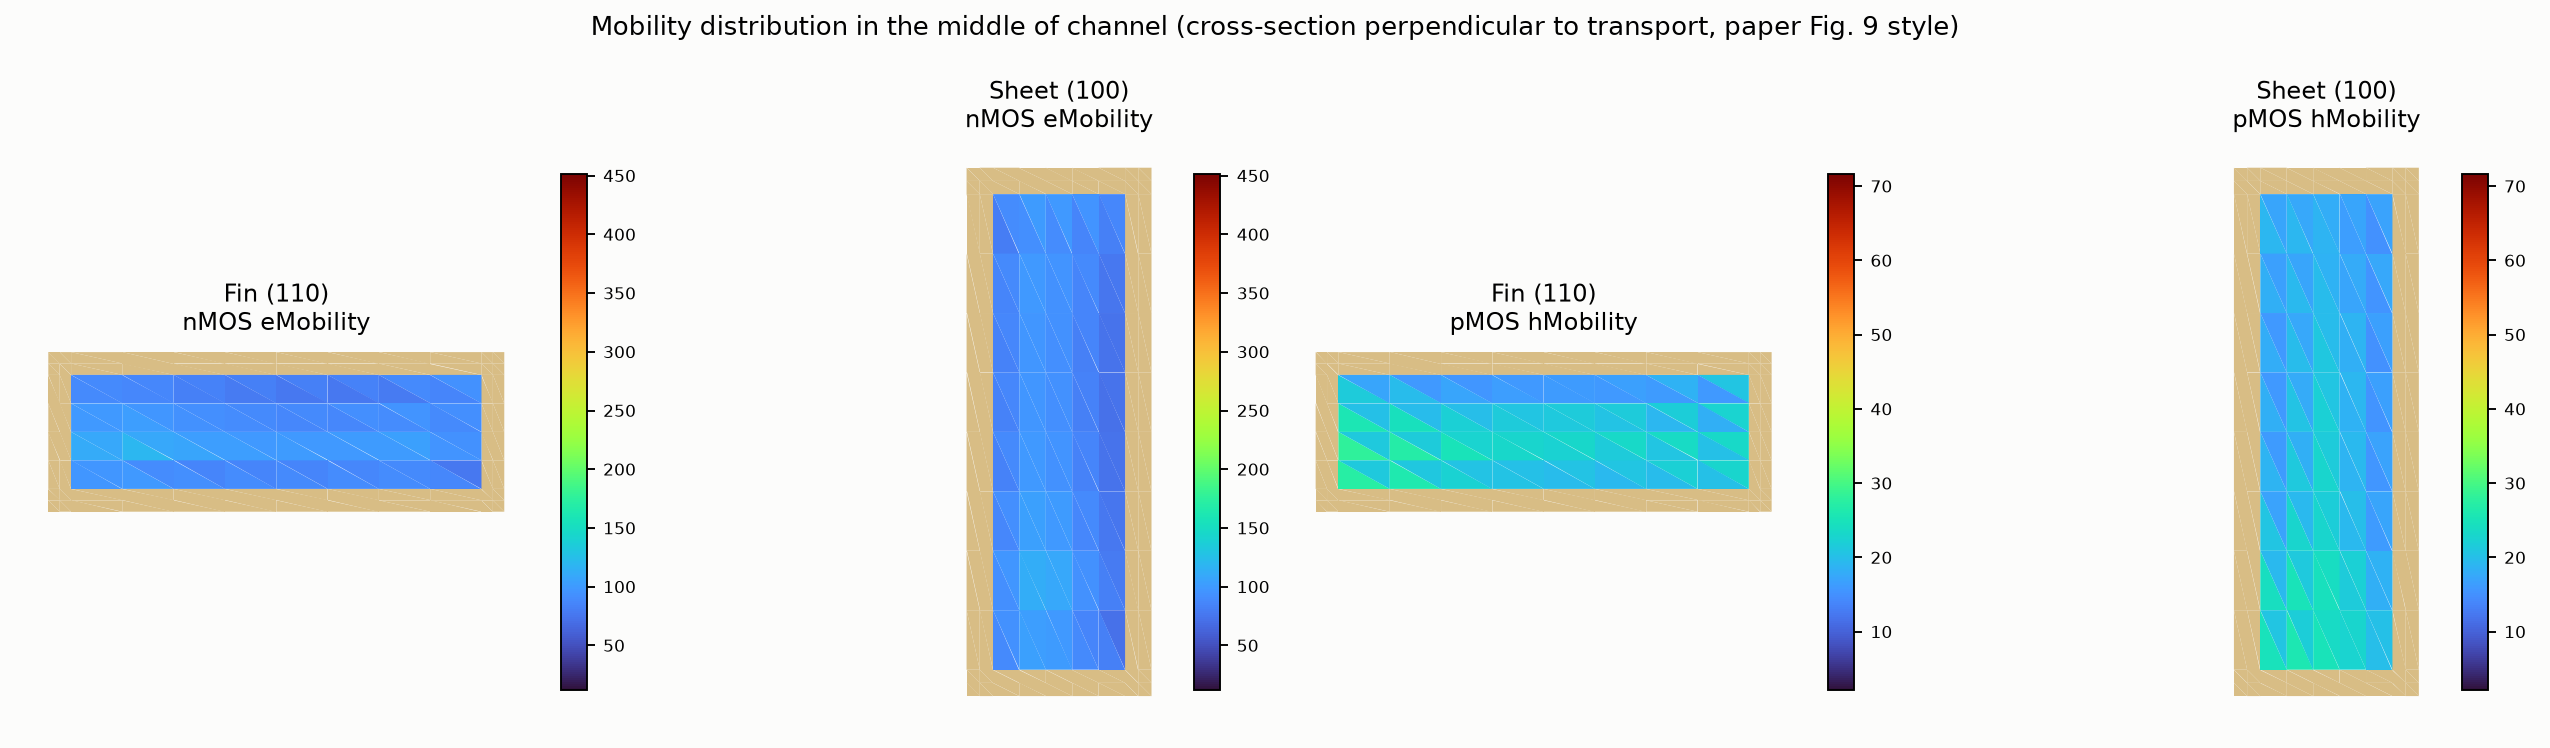
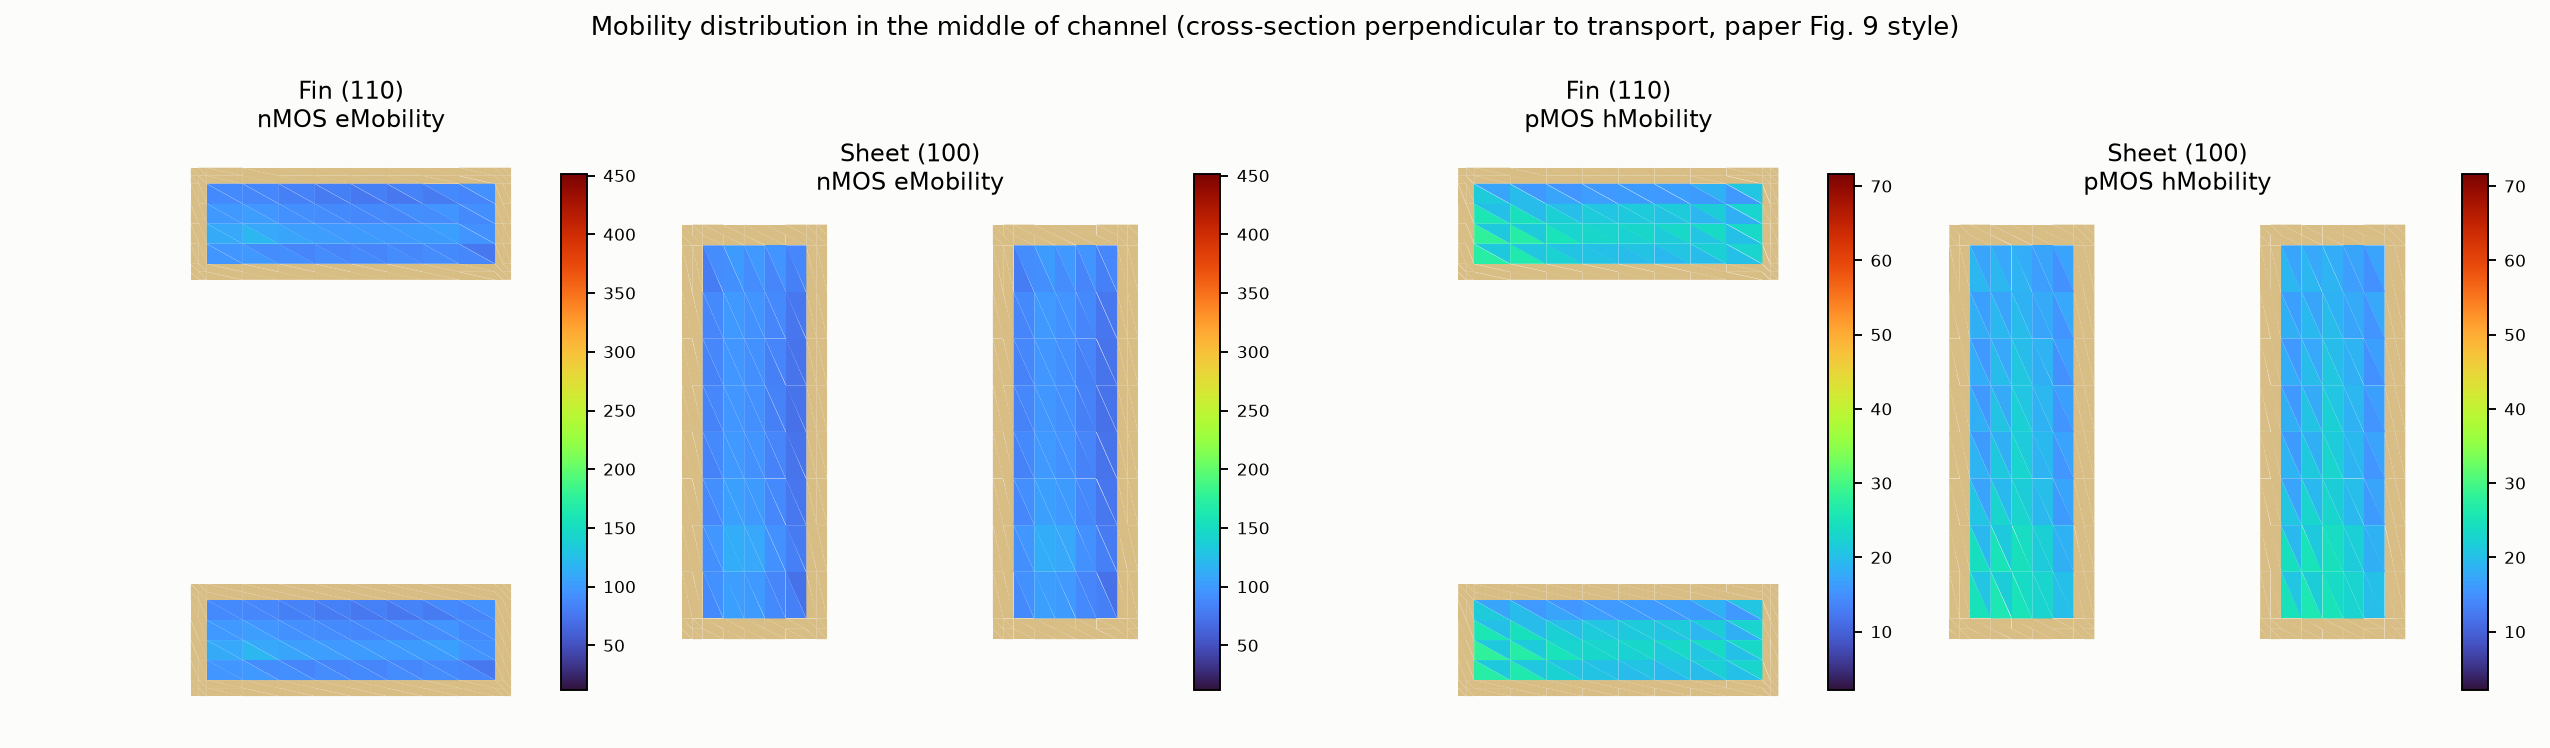
Regenerate paper Fig4/8/9 with true 2-fin/2-sheet geometry
The FBC/SBC Lombardi configs now carry real multi-channel geometry
(n_fins: 2 / n_stacked_sheets: 2), so the paper-style figures are
re-rendered from those runs: the FBC panels show two fins side by
side per device and the SBC panels two stacked sheets, matching the
paper's Fig. 4.

The re-render exposed a bug in the figure script's cutaway: clipping
at the device-wide mid-z plane deletes any replicated fin that lies
entirely on the far side. _clip_open() now clips each connected body
at its own mid-plane; single-channel output is unchanged.

Docs: multi-channel plan outcome finalized, project plan stats and
todo list refreshed (plan #15 commit hash filled in).

Claude-Session: https://claude.ai/code/session_01Rk98txMxHNLFbDxLMvH1tx

diff --git a/examples/paper_structure_mobility_figures.py b/examples/paper_structure_mobility_figures.py
@@ -64,6 +64,19 @@ def _own_oxide(oxides, region):
               key=lambda o: abs((o.bounds[2] + o.bounds[3]) / 2 - y_mid))
 
 
+def _clip_open(region):
+    """Cutaway that survives channel replication: clip every connected
+    body at its *own* mid-z plane. A single global mid-plane clip works
+    for one channel but deletes replicated fins/sheets that lie entirely
+    on the far side of the device-wide midpoint."""
+    import pyvista as pv
+    out = pv.MultiBlock()
+    for body in region.split_bodies():
+        z_mid = (body.bounds[4] + body.bounds[5]) / 2
+        out.append(body.clip(normal="z", origin=[0, 0, z_mid]))
+    return out.combine()
+
+
 def _iso_camera(bounds, zoom=1.3):
     c = [(bounds[0] + bounds[1]) / 2, (bounds[2] + bounds[3]) / 2,
         (bounds[4] + bounds[5]) / 2]
@@ -107,14 +120,12 @@ def main(argv=None) -> int:
     for i, cfg in enumerate(CONFIGS):
         p.subplot(0, i)
         bounds = device_bounds[cfg]
-        z_mid = (bounds[4] + bounds[5]) / 2
         for region in (nfet[cfg], pfet[cfg]):
-            clipped = region.clip(normal="z", origin=[0, 0, z_mid])
-            p.add_mesh(clipped, color=SILICON_COLOR, smooth_shading=True,
-                      specular=0.4, specular_power=20, show_edges=False)
+            p.add_mesh(_clip_open(region), color=SILICON_COLOR,
+                      smooth_shading=True, specular=0.4, specular_power=20,
+                      show_edges=False)
         for ox in oxides[cfg]:
-            clipped = ox.clip(normal="z", origin=[0, 0, z_mid])
-            p.add_mesh(clipped, color=OXIDE_COLOR, opacity=0.55,
+            p.add_mesh(_clip_open(ox), color=OXIDE_COLOR, opacity=0.55,
                       smooth_shading=True, show_edges=False)
         p.add_text(f"{LABELS[cfg]}  -  channel {ORIENTATION[cfg]} surface",
                   font_size=13, color="black")
@@ -138,14 +149,11 @@ def main(argv=None) -> int:
         # is a single-device eMobility plot, not the whole CFET stack
         n_region = nfet[cfg]
         n_oxide = _own_oxide(oxides[cfg], n_region)
-        z_mid = (n_region.bounds[4] + n_region.bounds[5]) / 2
-        clipped = n_region.clip(normal="z", origin=[0, 0, z_mid])
-        p.add_mesh(clipped, scalars="mu_n_cvt", cmap=CMAP, clim=clim,
-                  smooth_shading=True, show_edges=False,
+        p.add_mesh(_clip_open(n_region), scalars="mu_n_cvt", cmap=CMAP,
+                  clim=clim, smooth_shading=True, show_edges=False,
                   scalar_bar_args={"title": "eMobility [cm2/Vs]",
                                   "color": "black"})
-        oclip = n_oxide.clip(normal="z", origin=[0, 0, z_mid])
-        p.add_mesh(oclip, color=OXIDE_COLOR, opacity=0.22,
+        p.add_mesh(_clip_open(n_oxide), color=OXIDE_COLOR, opacity=0.22,
                   smooth_shading=True, show_edges=False)
         p.add_text(f"{LABELS[cfg]} - nMOS eMobility {ORIENTATION[cfg]}",
                   font_size=12, color="black")

diff --git a/docs/DEV_PLANS_ARCHIVE.md b/docs/DEV_PLANS_ARCHIVE.md
@@ -1086,8 +1086,11 @@ mesh 一个沟道体,n_sheets 仅是电流乘数;渲染端按 region 工作,buil
 
 实现落地于提交 `21076d9`:默认路径网格 MD5 与旧 builder 逐字节一致;
 双 fin 与双叠层电流均精确 = 2×单沟道(rel <1e-6),不连通 region 求解
-正确性同时得证;测试套 94。真实 2-fin/2-sheet 几何的 Fig4/8/9 重渲染
-随 lombardi 重跑完成后交付(见 PROJECT_DEV_PLAN 待办)。
+正确性同时得证;测试套 94。真实 2-fin/2-sheet 几何的 Fig4/8/9 已随
+lombardi 双沟道重跑完成交付:FBC 面板显示两个并排 fin、SBC 显示两个
+叠层 sheet,与论文 Fig.4 截图一致。重渲染暴露了图脚本的一个几何 bug
+——原 cutaway 在器件全域 mid-z 单平面裁剪,会把整个第二个 fin 裁掉;
+改为按连通体各自 mid-z 裁剪(`_clip_open`),单沟道行为不变。
 
 ---
 

diff --git a/docs/dev_plan_multi_channel_cfet.md b/docs/dev_plan_multi_channel_cfet.md
@@ -34,5 +34,8 @@ mesh 一个沟道体,n_sheets 仅是电流乘数;渲染端按 region 工作,buil
 
 实现落地于提交 `21076d9`:默认路径网格 MD5 与旧 builder 逐字节一致;
 双 fin 与双叠层电流均精确 = 2×单沟道(rel <1e-6),不连通 region 求解
-正确性同时得证;测试套 94。真实 2-fin/2-sheet 几何的 Fig4/8/9 重渲染
-随 lombardi 重跑完成后交付(见 PROJECT_DEV_PLAN 待办)。
+正确性同时得证;测试套 94。真实 2-fin/2-sheet 几何的 Fig4/8/9 已随
+lombardi 双沟道重跑完成交付:FBC 面板显示两个并排 fin、SBC 显示两个
+叠层 sheet,与论文 Fig.4 截图一致。重渲染暴露了图脚本的一个几何 bug
+——原 cutaway 在器件全域 mid-z 单平面裁剪,会把整个第二个 fin 裁掉;
+改为按连通体各自 mid-z 裁剪(`_clip_open`),单沟道行为不变。